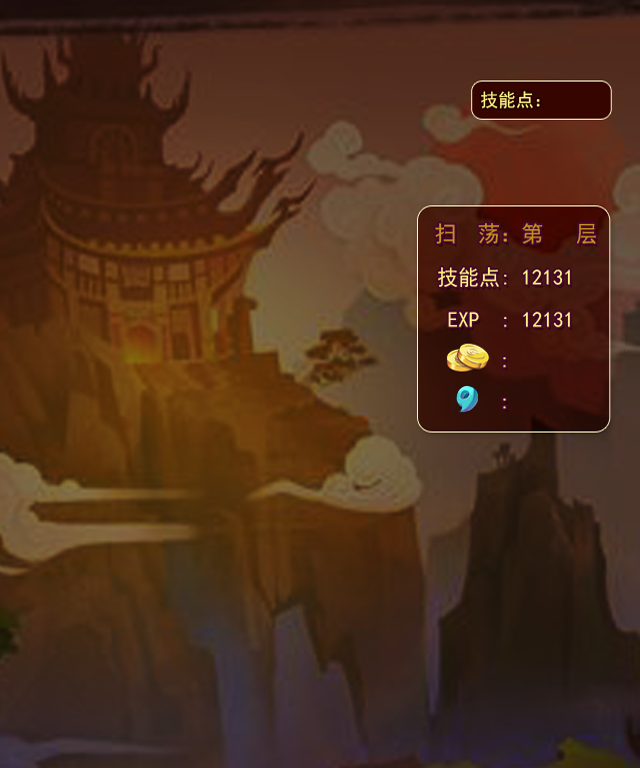
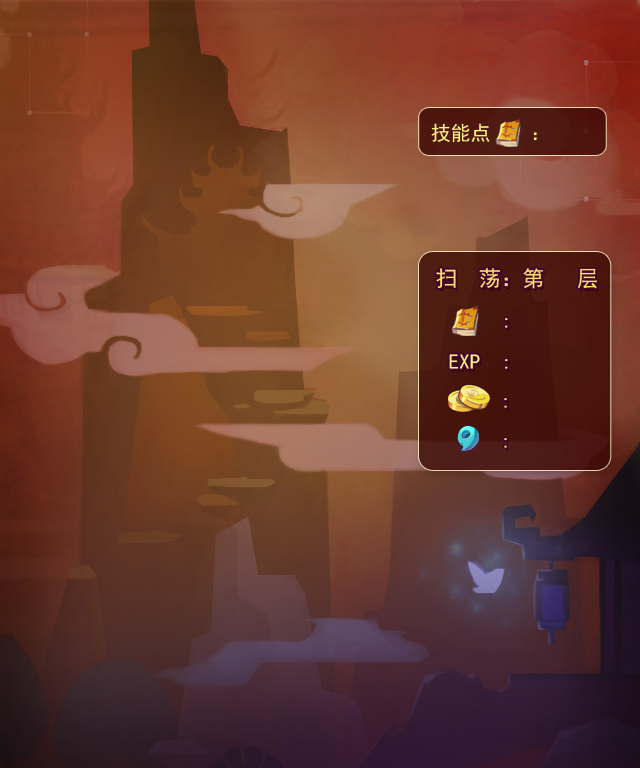
添加消息系统资源
添加消息系统资源

diff --git a/client/Client-v1.0.0-e2.1.5/Client-v1.0.0-e2.1.5/Resources/src/resource.js b/client/Client-v1.0.0-e2.1.5/Client-v1.0.0-e2.1.5/Resources/src/resource.js
@@ -206,7 +206,7 @@ var main_scene_image = {
     icon16: main_scene_path + "icon16.png",
     icon17: main_scene_path + "icon17.png",
     icon18: main_scene_path + "icon18.png",
-//    icon19: main_scene_path + "icon19.png",
+    icon19: main_scene_path + "icon19.png",
     icon20: main_scene_path + "icon20.png",
     icon21: main_scene_path + "icon21.png",
     icon22: main_scene_path + "icon22.png",
@@ -313,7 +313,16 @@ var main_scene_image = {
     icon123: main_scene_path + "icon123.png",
     icon124: main_scene_path + "icon124.png",
     icon125: main_scene_path + "icon125.png",
-    icon126: main_scene_path + "icon126.png"
+    icon126: main_scene_path + "icon126.png",
+    icon127: main_scene_path + "icon127.png",
+    icon128: main_scene_path + "icon128.png",
+    icon129: main_scene_path + "icon129.png",
+    icon130: main_scene_path + "icon130.png",
+    icon131: main_scene_path + "icon131.png",
+    icon132: main_scene_path + "icon132.png",
+    icon133: main_scene_path + "icon133.png",
+    icon134: main_scene_path + "icon134.png",
+    icon135: main_scene_path + "icon135.png"
 };
 
 var main_scene_res = [
